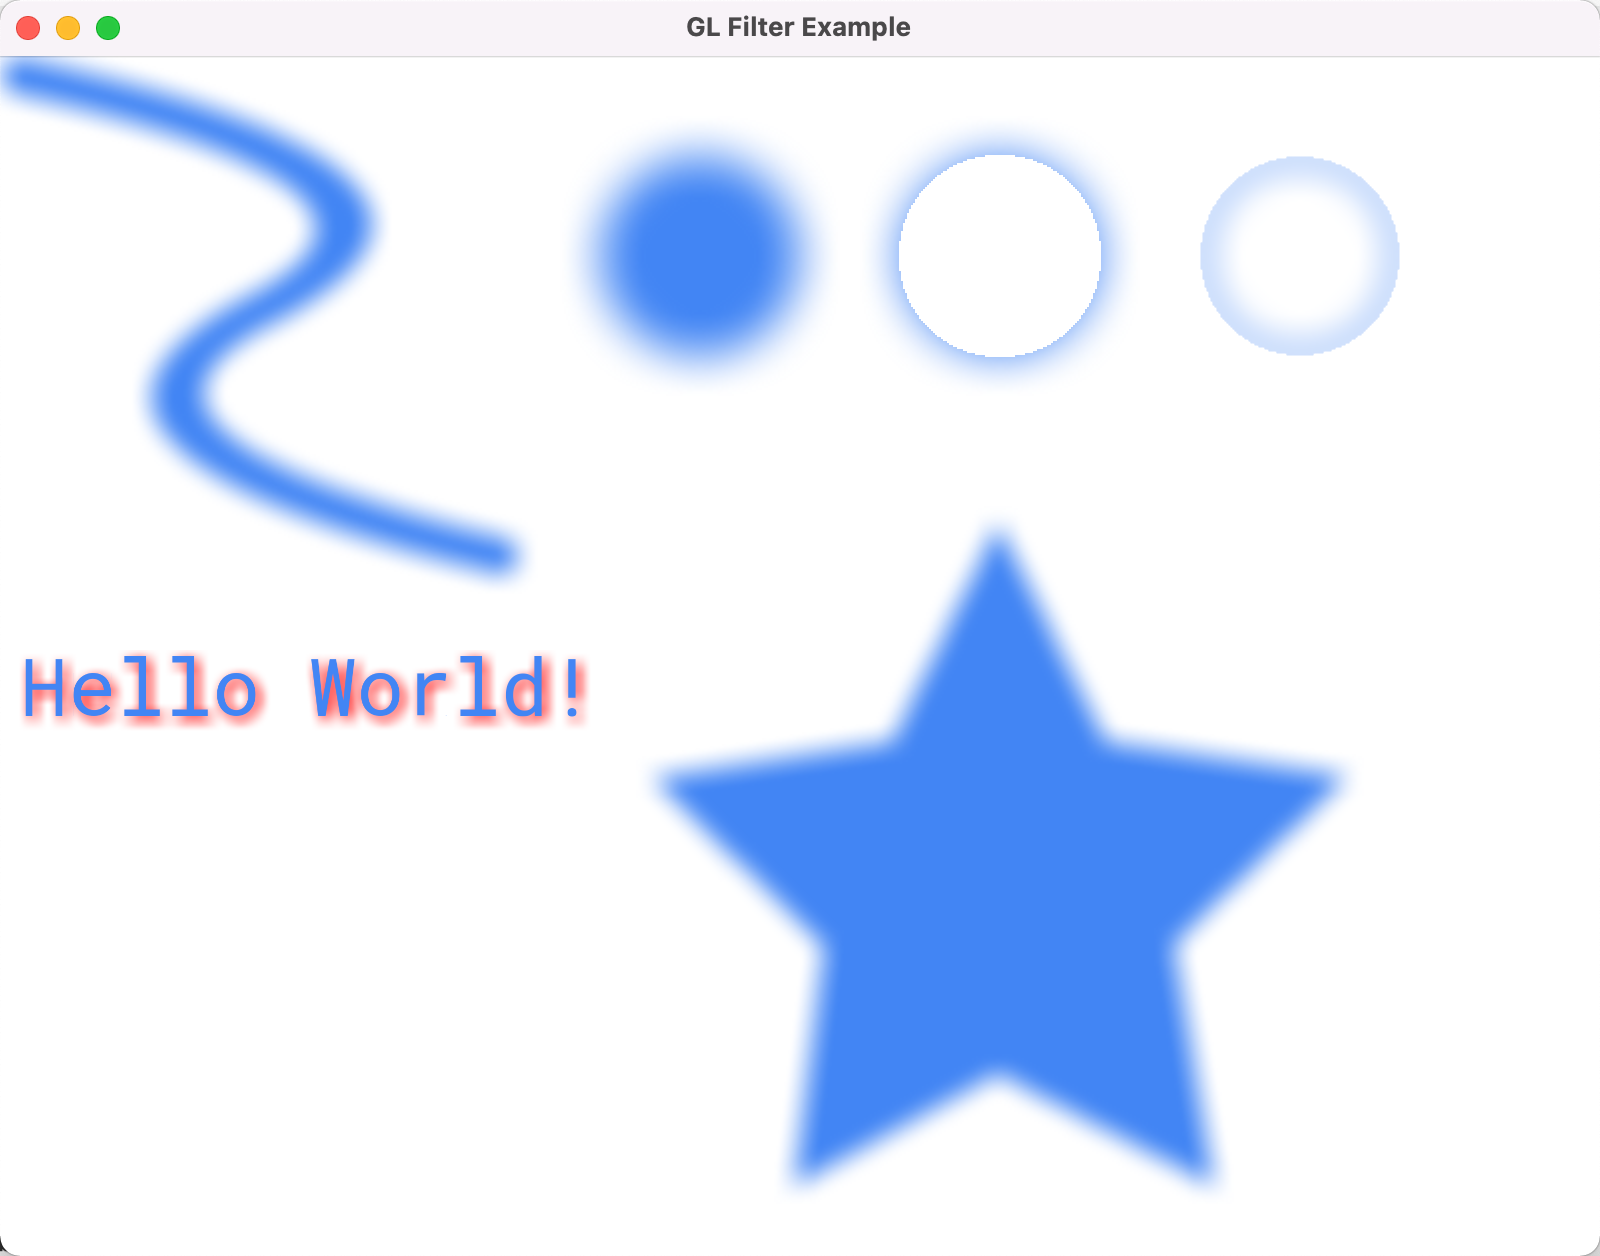
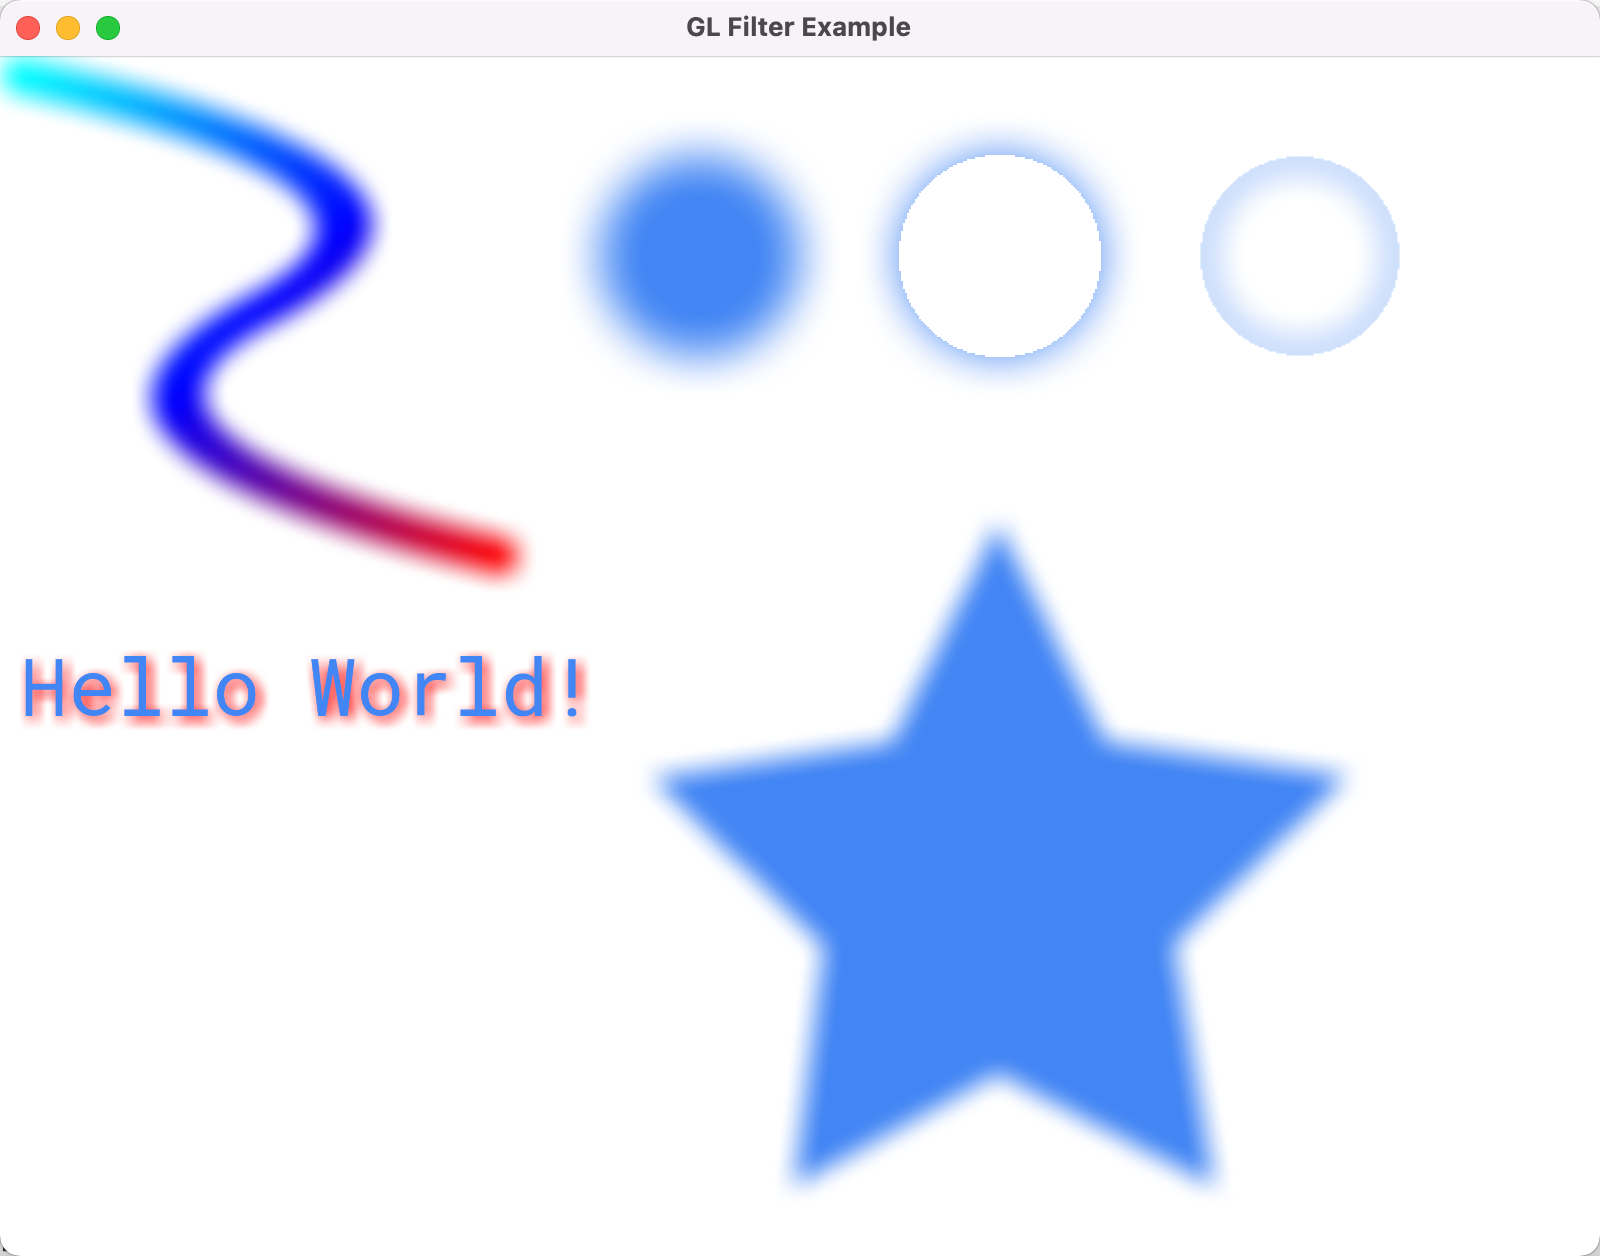
[example] add gradient color in filter_example

Changed region(s): [[0.0, 0.0311, 0.3438, 0.4658]]

diff --git a/example/filter_example.cc b/example/filter_example.cc
@@ -18,7 +18,25 @@ void draw_filter(skity::Canvas* canvas) {
   path.quadTo(256, 64, 128, 128);
   path.quadTo(10, 192, 250, 250);
 
+  {
+    skity::Vec4 colors[] = {
+        skity::Vec4{0.f, 1.f, 1.f, 1.f},
+        skity::Vec4{0.f, 0.f, 1.f, 1.f},
+        skity::Vec4{1.f, 0.f, 0.f, 1.f},
+    };
+
+    std::vector<skity::Point> pts = {
+        skity::Point{10.f, 10.f, 0.f, 1.f},
+        skity::Point{250.f, 250.f, 0.f, 1.f},
+    };
+
+    auto lgs = skity::Shader::MakeLinear(pts.data(), colors, nullptr, 3);
+    paint.setShader(lgs);
+  }
+
   canvas->drawPath(path, paint);
+
+  paint.setShader(nullptr);
 
   paint.setStyle(skity::Paint::kFill_Style);
   paint.setMaskFilter(
